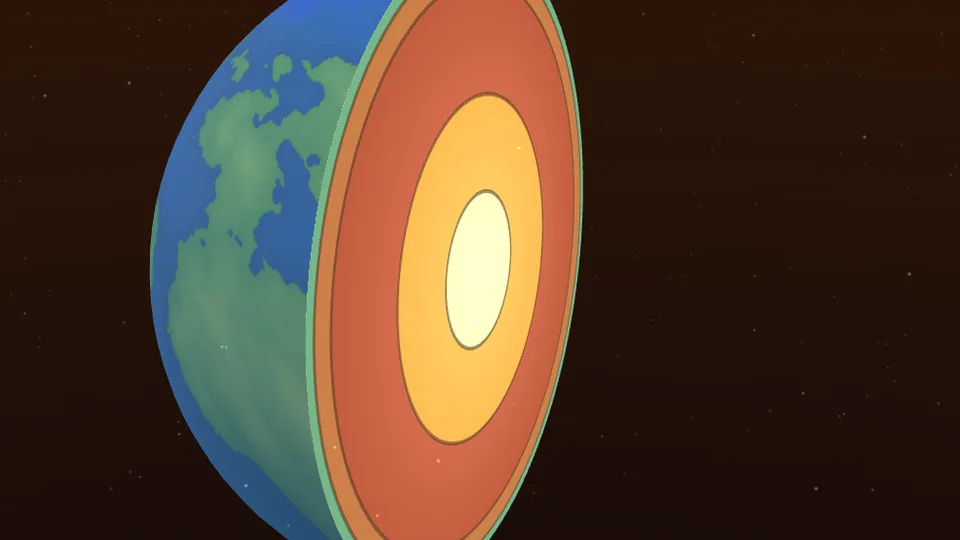
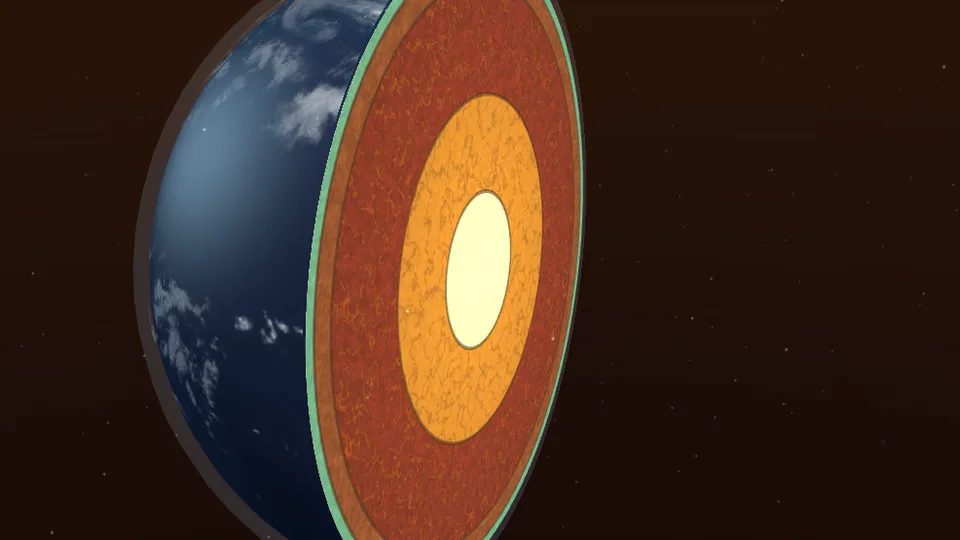
Terra por Dentro v1.0.1: realismo (Blue Marble da NASA, nuvens, halo, secção e túnel com rocha e magma)
- superfície com texturas NASA (cor, normal, máscara de oceano), nuvens e halo acompanhando o corte
- secção com textura de rocha/magma por camada; túnel com 3 materiais (crosta, manto com veios, núcleo metálico)
- precache inclui assets; capa do catálogo atualizada; BUILD 20261010b

Claude-Session: https://claude.ai/code/session_01NY5dyLEWQyRbJcA15BvZbZ

diff --git a/apps/terra/terra-models.js b/apps/terra/terra-models.js
@@ -24,16 +24,29 @@ function ruido2(){const P=new Uint8Array(512);let s=1337;const rnd=()=>{s=(s*168
   const fade=t=>t*t*t*(t*(t*6-15)+10),lerp=(a,b,t)=>a+t*(b-a),grad=(h,x,y)=>{const u=(h&1)?-x:x,v=(h&2)?-y:y;return u+v;};
   const n=(x,y)=>{const X=Math.floor(x)&255,Y=Math.floor(y)&255;x-=Math.floor(x);y-=Math.floor(y);const u=fade(x),v=fade(y);const A=P[X]+Y,B=P[X+1]+Y;return lerp(lerp(grad(P[A],x,y),grad(P[B],x-1,y),u),lerp(grad(P[A+1],x,y-1),grad(P[B+1],x-1,y-1),u),v);};
   return(x,y)=>{let a=0,f=1,amp=1,tot=0;for(let o=0;o<5;o++){a+=n(x*f,y*f)*amp;tot+=amp;amp*=.5;f*=2.1;}return a/tot;};}
-let texSuperficie=null,mascara=null;
-function superficie(){if(texSuperficie)return texSuperficie;const W=1024,H=512,c=document.createElement('canvas');c.width=W;c.height=H;const x=c.getContext('2d');const img=x.createImageData(W,H),d=img.data;const nz=ruido2();mascara=new Uint8Array(W*H);
-  for(let j=0;j<H;j++){const lat=(j/H-.5)*Math.PI;const polar=Math.pow(Math.abs(Math.sin(lat)),9);for(let i=0;i<W;i++){const lon=i/W*Math.PI*2;/* coordenadas na esfera para a textura fechar sem emenda */const px=Math.cos(lat)*Math.cos(lon)*1.6,py=Math.cos(lat)*Math.sin(lon)*1.6,pz=Math.sin(lat)*1.6;const v=nz(px+pz*.7,py-pz*.4)*.5+.5;const terra=v>.56;const k=(j*W+i)*4;let r,g,b;
-    if(terra){const alt=(v-.56)/.3;const mont=alt>.55;r=mont?150+alt*60:70+alt*90;g=mont?135+alt*50:120+alt*60;b=mont?120+alt*60:55+alt*40;mascara[j*W+i]=1;}
-    else{const prof=Math.min(1,(.56-v)/.25);r=18+prof*6;g=60+prof*40*(1-prof);b=120+prof*50;}
-    if(polar>.35){const k2=Math.min(1,(polar-.35)/.4);r=r+(235-r)*k2;g=g+(240-g)*k2;b=b+(245-b)*k2;}
-    d[k]=r;d[k+1]=g;d[k+2]=b;d[k+3]=255;}}
-  x.putImageData(img,0,0);const tx=new T.CanvasTexture(c);tx.encoding=T.sRGBEncoding;tx.anisotropy=8;texSuperficie=tx;return tx;}
+/* superfície: Blue Marble da NASA (domínio público; cópias dos exemplos do three.js r128, convertidas para WebP) */
+const TEX={};const loader=new T.TextureLoader();
+function textura(nome,opt={}){if(TEX[nome])return TEX[nome];const tx=loader.load('assets/'+nome,t=>{if(opt.aoCarregar)opt.aoCarregar(t);});if(opt.srgb!==false)tx.encoding=T.sRGBEncoding;tx.anisotropy=8;TEX[nome]=tx;return tx;}
+let mascara=null;
+function carregarMascara(){if(mascara||carregarMascara.indo)return;carregarMascara.indo=true;const im=new Image();im.onload=()=>{const W=1024,H=512,c=document.createElement('canvas');c.width=W;c.height=H;const x=c.getContext('2d');x.drawImage(im,0,0,W,H);const d=x.getImageData(0,0,W,H).data;mascara=new Uint8Array(W*H);for(let k=0;k<W*H;k++)mascara[k]=d[k*4]>110?0:1;/* mapa especular: oceano claro, continente escuro */};im.src='assets/terra-oceano.webp';}
+function superficie(){carregarMascara();return textura('terra-cor.webp');}
 /* é continente ou oceano no ponto (uv) tocado? */
 function tipoCrosta(uv){if(!mascara||!uv)return 'crosta';const W=1024,H=512;const i=Math.floor(uv.x*W)&(W-1),j=Math.min(H-1,Math.floor((1-uv.y)*H));return mascara[j*W+i]?'crosta_continental':'crosta_oceanica';}
+/* texturas procedurais (geradas uma vez): rocha/magma por camada para a secção; rocha e veias para o túnel */
+const TEXP={};
+function texRuido(nome,W,fn){if(TEXP[nome])return TEXP[nome];const c=document.createElement('canvas');c.width=c.height=W;const x=c.getContext('2d');const img=x.createImageData(W,W),d=img.data;const nz=ruido2();for(let j=0;j<W;j++)for(let i=0;i<W;i++){const k=(j*W+i)*4;const [r,g,b,a]=fn(i/W,j/W,nz);d[k]=r;d[k+1]=g;d[k+2]=b;d[k+3]=a===undefined?255:a;}x.putImageData(img,0,0);const tx=new T.CanvasTexture(c);tx.encoding=T.sRGBEncoding;tx.wrapS=tx.wrapT=T.MirroredRepeatWrapping;tx.anisotropy=8;TEXP[nome]=tx;return tx;}
+const GRAO={crosta:[.55,.3],manto_superior:[.6,.35],manto_inferior:[.6,.4],nucleo_externo:[.3,.5],nucleo_interno:[.2,.3]};
+function texTampa(key){const cam=CAMADAS.find(c=>c.key===key);const base=new T.Color(cam.cor);const [amp,vei]=GRAO[key]||[.5,.3];
+  return texRuido('tampa-'+key,512,(u,v,nz)=>{const dx=u-.5,dy=v-.5;const rr=Math.sqrt(dx*dx+dy*dy)*2;/* raio normalizado da Terra (a tampa usa UV centrado) */
+    const g1=nz(u*48,v*48)*.5+.5,g2=nz(u*160+9,v*160)*.5+.5,g3=Math.abs(nz(u*22+40,v*22+7));/* grão, grão fino, veios */
+    let k=(1-amp)+amp*(0.45*g1+0.55*g2);if(key!=='crosta'&&key!=='nucleo_interno')k*=1-vei*Math.pow(1-Math.min(1,g3*2.2),6)*.9;/* veios escuros ou claros */
+    if(key==='nucleo_externo')k*=.9+.35*Math.pow(1-Math.min(1,g3*2.5),4);/* metal líquido: veios claros */
+    const calor=key==='crosta'?1:1+(1-rr)*.25;/* mais claro para dentro */const r=Math.min(255,base.r*255*k*calor),g=Math.min(255,base.g*255*k*calor),b=Math.min(255,base.b*255*k*calor);return [r,g,b];});}
+function texVeias(){return texRuido('veias',512,(u,v,nz)=>{const g3=Math.abs(nz(u*22+40,v*22+7));const w=Math.pow(1-Math.min(1,g3*2.2),7);const k=255*w;return [k,k*.7,k*.3];});}
+function texRocha(){return texRuido('rocha',512,(u,v,nz)=>{const g1=nz(u*9,v*9)*.5+.5,g2=nz(u*40+3,v*40)*.5+.5,g3=Math.abs(nz(u*14+40,v*14+7));const fenda=Math.pow(Math.min(1,g3*3),.5);const k=(.35+.65*(0.5*g1+0.5*g2))*(.45+.55*fenda);const c=255*k;return [c,c,c];});}
+function texMagma(){return texRuido('magma',512,(u,v,nz)=>{const g3=Math.abs(nz(u*7+40,v*7+7)),g4=nz(u*60,v*60)*.5+.5;const w=Math.pow(1-Math.min(1,g3*2.6),9)*(.5+.5*g4);const k=255*w;return [k,k*.5,k*.12];});}
+/* núcleo externo: metal líquido em redemoinhos largos, sem veios */
+function texMetal(){return texRuido('metal',512,(u,v,nz)=>{const g1=nz(u*4+11,v*4)*.5+.5,g2=nz(u*18+3,v*18+9)*.5+.5;const w=.25+.75*Math.pow(.35*g1+.65*g2,1.6);const k=255*w;return [k,k*.72,k*.3];});}
 /* a Terra: esferas aninhadas; com corte, plano de recorte + tampas (anéis) na secção; destaque opcional de camadas */
 function terra(opt={}){
   const g=new T.Group();const R0=opt.raio||R;const corte=!!opt.corte;const d=(opt.cortePos||0)*R0;/* 0 = pelo centro */
@@ -41,16 +54,18 @@ function terra(opt={}){
   const giro=new T.Group();g.add(giro);const tampas=new T.Group();tampas.rotation.y=opt.anguloCorte!==undefined?opt.anguloCorte:1.0;/* corte oblíquo: vê-se a secção e um pedaço da superfície */g.add(tampas);
   const plano=new T.Plane(V(0,0,-1),d);const local=plano.clone();
   CAMADAS.forEach((c,i)=>{const esf=new T.Mesh(new T.SphereGeometry(c.r*R0,i===0?64:40,i===0?48:28),mat(c.cor,{emissive:c.emis,roughness:i>=3?.45:.8,metalness:i>=3?.25:.02}));
-    if(i===0){esf.material.map=superficie();esf.material.color.setHex(0xffffff);esf.material.emissive.setHex(0x05101c);esf.material.roughness=.85;}
+    if(i===0){esf.material.dispose();esf.material=new T.MeshPhongMaterial({map:superficie(),normalMap:textura('terra-normal.webp',{srgb:false}),normalScale:new T.Vector2(.85,.85),specularMap:textura('terra-oceano.webp',{srgb:false}),specular:new T.Color(0x3a4a5a),shininess:18});}
     if(corte){esf.material.clippingPlanes=[plano];esf.material.clipShadows=true;}
     if(dim(c.key)){esf.material.transparent=true;esf.material.opacity=.22;esf.material.depthWrite=false;}
     if(destaque&&destaque.includes(c.key)&&c.key!=='crosta'){esf.material.emissive=new T.Color(c.cor).multiplyScalar(.35);}
     esf.userData.camada=c.key;const hit=opt.hitFn?opt.hitFn(c.key):null;if(hit)esf.userData.hit=hit;if(i===0)esf.userData.dinamico='crosta';
     giro.add(esf);});
+  /* nuvens e halo atmosférico (acompanham o corte) */
+  if(!opt.semNuvens){const nuv=new T.Mesh(new T.SphereGeometry(R0*1.012,48,32),new T.MeshLambertMaterial({map:textura('terra-nuvens.webp'),transparent:true,opacity:.85,depthWrite:false}));if(corte)nuv.material.clippingPlanes=[plano];if(destaque)nuv.material.opacity=.25;nuv.userData.semEnquadre=true;giro.add(nuv);g.userData.nuvens=nuv;
+    const halo=new T.Mesh(new T.SphereGeometry(R0*1.045,48,32),new T.MeshBasicMaterial({color:0x5aa8ff,transparent:true,opacity:.14,side:T.BackSide,depthWrite:false,blending:T.AdditiveBlending}));if(corte)halo.material.clippingPlanes=[plano];halo.userData.semEnquadre=true;giro.add(halo);}
   if(corte){CAMADAS.forEach(c=>{const ro=c.r*R0,ri=c.r0*R0;if(ro<=Math.abs(d))return;const rout=Math.sqrt(ro*ro-d*d),rin=ri>Math.abs(d)?Math.sqrt(ri*ri-d*d):0;
       const anel=new T.Mesh(rin>0?new T.RingGeometry(rin,rout,96):new T.CircleGeometry(rout,96),mat(c.cor,{emissive:c.emis,roughness:.9,side:T.DoubleSide}));
-      /* gradiente de calor na secção: a face ganha um brilho que cresce para dentro */const cv=document.createElement('canvas');cv.width=cv.height=256;const q=cv.getContext('2d');const grd=q.createRadialGradient(128,128,0,128,128,128);const base=new T.Color(c.cor);const claro=base.clone().lerp(new T.Color(0xffffff),.25),escuro=base.clone().multiplyScalar(.72);grd.addColorStop(0,'#'+claro.getHexString());grd.addColorStop(1,'#'+escuro.getHexString());q.fillStyle=grd;q.fillRect(0,0,256,256);
-      const tx=new T.CanvasTexture(cv);tx.encoding=T.sRGBEncoding;anel.material.map=tx;anel.material.color.setHex(0xffffff);
+      const tx=texTampa(c.key);anel.material.map=tx;anel.material.color.setHex(0xffffff);if(c.key==='nucleo_externo'||c.key==='nucleo_interno'){anel.material.emissiveMap=tx;anel.material.emissive=new T.Color(c.key==='nucleo_interno'?0xffe9a0:0xff9a30);anel.material.emissiveIntensity=c.key==='nucleo_interno'?.55:.35;}else if(c.key!=='crosta'){anel.material.emissiveMap=texVeias();anel.material.emissive=new T.Color(0xff6a20);anel.material.emissiveIntensity=c.key==='manto_inferior'?.45:.28;}
       /* mapeia a textura radial da tampa pelo raio */const uv=anel.geometry.attributes.uv,pos=anel.geometry.attributes.position;for(let k=0;k<uv.count;k++){const px=pos.getX(k),py=pos.getY(k);const rr=Math.sqrt(px*px+py*py)/(R0);uv.setXY(k,.5+px/(2*R0),.5+py/(2*R0));}uv.needsUpdate=true;
       anel.position.z=d+.002;anel.userData.camada=c.key;if(dim(c.key)){anel.material.transparent=true;anel.material.opacity=.3;}
       if(destaque&&destaque.includes(c.key)){anel.material.emissive=new T.Color(c.cor).multiplyScalar(.5);}
@@ -67,7 +82,7 @@ function terra(opt={}){
   if(opt.kola){const mk=new T.Mesh(new T.CylinderGeometry(.012,.012,.1,8),new T.MeshBasicMaterial({color:0xffe08a}));mk.position.set(0,R0-.05,d+.02);tampas.add(mk);textFixo(tampas,'Poço de Kola · 12 km',1.3,R0+.25,d+.03,2.2,'#ffe08a');}
   g.userData.plano=plano;g.userData.local=local;g.userData.giro=giro;g.userData.tampas=tampas;g.userData.raio=R0;
   const girar=opt.girar!==false;
-  g.userData.tick=(t)=>{if(girar)giro.rotation.y=t*.08;if(corte){tampas.updateMatrixWorld(true);plano.copy(local).applyMatrix4(tampas.matrixWorld);}
+  g.userData.tick=(t)=>{if(girar)giro.rotation.y=t*.08;if(g.userData.nuvens)g.userData.nuvens.rotation.y=t*.012;if(corte){tampas.updateMatrixWorld(true);plano.copy(local).applyMatrix4(tampas.matrixWorld);}
     const nuc=giro.children[4];if(nuc&&nuc.material&&nuc.material.emissive)nuc.material.emissiveIntensity=.8+.3*Math.sin(t*1.6);
     if(g.userData.ondas){const R1=g.userData.ondasR;g.userData.ondas.children.forEach(an=>{if(an.userData.f===undefined)return;const u=((t*.22)+an.userData.f)%1;const r=.15+u*R1*1.85;/* só o arco que está dentro da Terra: círculo centrado no epicentro, recortado pelo disco */const a0=Math.asin(Math.min(1,r/(2*R1)));an.geometry.dispose();an.geometry=new T.RingGeometry(Math.max(.01,r-.035),r,72,1,Math.PI+a0,Math.PI-2*a0);an.material.opacity=.9*(1-u*.8);});}
     if(g.userData.campo)g.userData.campo.rotation.y=t*.08;};
@@ -128,9 +143,11 @@ function tunel(){if(tuboCache)return tuboCache;const pts=[];for(let i=0;i<=420;i
   for(let i=0;i<=seg;i++){const t=i/seg;const base=corTrecho(t);for(let j=0;j<=rad;j++){const k=i*(rad+1)+j;v.fromBufferAttribute(pos,k);nn.fromBufferAttribute(nor,k);const r1=nz(t*1300,j*.9)*.5+.5,r2=nz(t*2800+5,j*1.3)*.5+.5;/* ~1 ciclo a cada 6 cm de parede */const amp=t<.3?.16:t<.72?.11:.05;v.addScaledVector(nn,(r1-.5)*amp);pos.setXYZ(k,v.x,v.y,v.z);const fenda=Math.pow(Math.abs(nz(t*4600+30,j*2.2)),.35);/* rachaduras escuras */
       /* cores em espaço linear: valores baixos para não ficarem pastel depois da conversão sRGB */const r3=r2*r2;const brilho=(t>.72?.22+.6*r3:t>.44?.05+.42*r3:.04+.38*r3)*(.55+.45*fenda);const c=base.clone().multiplyScalar(brilho);cols[k*3]=Math.min(1,c.r);cols[k*3+1]=Math.min(1,c.g);cols[k*3+2]=Math.min(1,c.b);}}
   pos.needsUpdate=true;geo.computeVertexNormals();geo.setAttribute('color',new T.BufferAttribute(cols,3));
+  /* repetição da textura ao longo do túnel (u) e em volta (v) */const uv=geo.attributes.uv;for(let k=0;k<uv.count;k++)uv.setXY(k,uv.getX(k)*160,uv.getY(k)*3);uv.needsUpdate=true;
+  /* grupos de material: crosta (voltas 0-1), manto (2-4), núcleo (5-6) */const porSeg=rad*6;geo.clearGroups();const s1=Math.round(seg*2/VOLTAS),s2=Math.round(seg*5/VOLTAS);geo.addGroup(0,s1*porSeg,0);geo.addGroup(s1*porSeg,(s2-s1)*porSeg,1);geo.addGroup(s2*porSeg,(seg-s2)*porSeg,2);
   tuboCache={geo,curva};return tuboCache;}
 function viagemCena(state){const g=new T.Group();const {geo,curva}=tunel();const i=state.trecho||0;
-  const tubo=new T.Mesh(geo,new T.MeshStandardMaterial({vertexColors:true,side:T.BackSide,roughness:.9,metalness:i>=5?.35:.0,emissive:i>=5?0x241000:0x000000}));g.add(tubo);
+  const mats=[new T.MeshStandardMaterial({vertexColors:true,map:texRocha(),side:T.BackSide,roughness:.95,metalness:0}),new T.MeshStandardMaterial({vertexColors:true,map:texRocha(),emissiveMap:texMagma(),emissive:new T.Color(0xff7a20),emissiveIntensity:.5,side:T.BackSide,roughness:.9,metalness:0}),new T.MeshStandardMaterial({vertexColors:true,map:texMetal(),emissiveMap:texMetal(),emissive:new T.Color(0xffb030),emissiveIntensity:.45,side:T.BackSide,roughness:.3,metalness:.7})];const tubo=new T.Mesh(geo,mats);g.add(tubo);
   /* partículas quentes dentro do túnel (faíscas no manto, metal no núcleo) */const n=1400;const pos=new Float32Array(n*3),col=new Float32Array(n*3);let s=7;const rnd=()=>{s=(s*9301+49297)%233280;return s/233280;};
   for(let k=0;k<n;k++){const t=rnd();const p=helice(t);const a=rnd()*Math.PI*2,rr=.16+rnd()*.2;p.x+=Math.cos(a)*rr;p.z+=Math.sin(a)*rr;p.y+=(rnd()-.5)*.3;pos[k*3]=p.x;pos[k*3+1]=p.y;pos[k*3+2]=p.z;const c=corTrecho(t).lerp(new T.Color(0xffffff),.35);col[k*3]=c.r;col[k*3+1]=c.g;col[k*3+2]=c.b;}
   const pg=new T.BufferGeometry();pg.setAttribute('position',new T.BufferAttribute(pos,3));pg.setAttribute('color',new T.BufferAttribute(col,3));
@@ -142,6 +159,6 @@ function viagemCena(state){const g=new T.Group();const {geo,curva}=tunel();const
   g.userData.tick=t=>{g.traverse(o=>{if(o.userData.trilha!==undefined){o.material.opacity=.3+.6*Math.pow(Math.max(0,Math.sin(t*3-o.userData.trilha*8)),2);}});pts.material.opacity=.7+.25*Math.sin(t*2.1);};
   return g;}
 function desafio(){const g=new T.Group();const te=terra({corte:true,hitFn:k=>({type:'inspect',key:k})});g.add(te);g.userData.tick=te.userData.tick;return g;}
-function dispose(g){if(!g)return;const geos=new Set(),mats=new Set(),tex=new Set();g.traverse(o=>{if(o.geometry&&!o.isSprite&&o.geometry!==(tuboCache&&tuboCache.geo))geos.add(o.geometry);for(const m of [].concat(o.material||[])){if(!m)continue;mats.add(m);if(m.map&&m.map!==texSuperficie)tex.add(m.map);}});geos.forEach(x=>x.dispose());mats.forEach(x=>x.dispose());tex.forEach(x=>x.dispose());if(g.parent)g.parent.remove(g);}
+function dispose(g){if(!g)return;const geos=new Set(),mats=new Set(),tex=new Set();g.traverse(o=>{if(o.geometry&&!o.isSprite&&o.geometry!==(tuboCache&&tuboCache.geo))geos.add(o.geometry);for(const m of [].concat(o.material||[])){if(!m)continue;mats.add(m);const comp=new Set([...Object.values(TEX),...Object.values(TEXP)]);for(const t of [m.map,m.emissiveMap,m.normalMap,m.specularMap]){if(t&&!comp.has(t))tex.add(t);}}});geos.forEach(x=>x.dispose());mats.forEach(x=>x.dispose());tex.forEach(x=>x.dispose());if(g.parent)g.parent.remove(g);}
 window.TERRA_MODELS={V,R,CAMADAS,mat,ball,label,rotuloFixo,textFixo,textAt,tag,terra,contexto,explorar,inspection,sequencia,viagemCena,desafio,tipoCrosta,dispose,ESCALA_VR};
 })();

diff --git a/apps/terra/terra-app.js b/apps/terra/terra-app.js
@@ -217,7 +217,7 @@ function setup(){
   else if(ac==='offlineBaixar')offlineBaixar();else if(ac==='downloadJSON')download('TerraPorDentro-resumo.json',JSON.stringify(report(),null,2),'application/json');
   else if(ac==='downloadCSV'){const r=report(),rows=[['evento','habilidade','correto','posicao','escolha','data'],...r.events.map(e=>[e.event,e.skill,e.correct??'',e.position??'',e.choice??'',e.at])];const csv=''+rows.map(row=>row.map(v=>'"'+String(v).replace(/"/g,'""')+'"').join(';')).join('\r\n');download('TerraPorDentro-atividades.csv',csv,'text/csv;charset=utf-8');}
   else if(ac==='catalog'){e.preventDefault();handle('catalog');}});
- $('sourcesContent').innerHTML='<p class="fine">Conteúdo elaborado para o Fundamental II (6º e 7º anos) e o Ensino Médio, com revisão docente recomendada.</p><p class="fine"><b>Modelos 3D:</b> todos procedurais, gerados no navegador pela NEWPC (continentes por ruído, camadas em esferas, túnel da viagem). As espessuras das camadas são didáticas: a crosta real tem cerca de 0,5% do raio.</p><ul class="resource-list">'+D.sources.map(([t,u])=>'<li><a href="'+u+'" target="_blank" rel="noopener noreferrer">'+esc(t)+'</a></li>').join('')+'</ul><p class="fine">Limites: temperaturas e pressões são valores médios de referência; a viagem é uma representação (ninguém jamais desceu além de 12 km). Não substitui atlas geológico.</p>';
+ $('sourcesContent').innerHTML='<p class="fine">Conteúdo elaborado para o Fundamental II (6º e 7º anos) e o Ensino Médio, com revisão docente recomendada.</p><p class="fine"><b>Modelos 3D:</b> procedurais, gerados no navegador pela NEWPC (camadas em esferas, secção com textura de rocha e magma, túnel da viagem). A superfície usa as imagens Blue Marble da NASA (domínio público). As espessuras das camadas são didáticas: a crosta real tem cerca de 0,5% do raio.</p><ul class="resource-list">'+D.sources.map(([t,u])=>'<li><a href="'+u+'" target="_blank" rel="noopener noreferrer">'+esc(t)+'</a></li>').join('')+'</ul><p class="fine">Limites: temperaturas e pressões são valores médios de referência; a viagem é uma representação (ninguém jamais desceu além de 12 km). Não substitui atlas geológico.</p>';
  $('level').addEventListener('change',e=>{S.level=e.target.value;renderSidebar();save();});$('voiceVolume').addEventListener('input',e=>{const n=Number(e.target.value);$('voiceValue').textContent=n+'%';narrator.setVoice(n/100);});$('musicVolume').addEventListener('input',e=>{const n=Number(e.target.value);$('musicValue').textContent=n+'%';narrator.setMusic($('musicEnabled').checked,n/100);});$('musicEnabled').addEventListener('change',e=>narrator.setMusic(e.target.checked));$('autoVoice').checked=S.autoVoice;$('autoVoice').addEventListener('change',e=>{S.autoVoice=e.target.checked;if(!S.autoVoice)narrator.stop();save();});$('syntheticVoice').addEventListener('change',e=>{narrator.synthetic=e.target.checked;narrator.stop();});$('captionsEnabled').checked=S.captions;$('captionsEnabled').addEventListener('change',e=>{S.captions=e.target.checked;$('captionText').hidden=!S.captions;save();});$('reducedMotion').checked=S.reducedMotion;$('reducedMotion').addEventListener('change',e=>{S.reducedMotion=e.target.checked;save();});$('quality').value=S.quality;$('quality').addEventListener('change',e=>{S.quality=e.target.value;if(view)view.pixel=0;save();});if($('chaoVR')){$('chaoVR').value=S.chaoVR||'discreto';$('chaoVR').addEventListener('change',e=>{S.chaoVR=e.target.value;save();});}
  window.addEventListener('pagehide',()=>{save();narrator.dispose();});document.addEventListener('visibilitychange',()=>{if(document.hidden){narrator.stop();narrator.music.pause();}});
  if(T&&M)view=new LabView();else{$('webglError').hidden=false;$('stage').classList.add('error');}

diff --git a/apps/terra/terra-data.js b/apps/terra/terra-data.js
@@ -2,7 +2,7 @@
    Conteúdo: tema Camadas da Terra (Contexto, Explorar, Monte as camadas, Viagem ao centro, Desafio).
    Placas, Vulcão e Rochas entram como temas "em breve". Textos no tom falado das narrações (chaves = nomes dos MP3 em audio/). */
 (function(){'use strict';
-const D={version:'1.0.0'};
+const D={version:'1.0.1'};
 D.temas=[
  {id:'camadas',nome:'Camadas da Terra',estuda:'Do que a Terra é feita por dentro.',exemplos:'Crosta, manto, núcleo externo e núcleo interno',modulo:'cam',atividades:['contexto','explorar','montar','viagem'],questoes:['liquida','kola','manto','magnetico','sismicas','interno','oceanica','temperatura']},
  {id:'placas',nome:'Placas tectônicas',estuda:'Por que a crosta se mexe, treme e se quebra.',breve:true},
@@ -77,6 +77,6 @@ D.guide=[
  {view:'desafio',title:'Mostre o que entendeu',goal:'Responda às situações finais e consulte o seu resumo.',check:'desafio',audio:'aula-desafio'}
 ];
 D.WELCOME='Bem-vindo ao Terra por Dentro! Aqui você vai abrir o planeta ao meio, conhecer cada camada, montar a Terra de fora para dentro e fazer uma viagem até o centro, onde ninguém nunca chegou. Vamos começar?';
-D.sources=[['USGS · Earth\'s interior','https://www.usgs.gov/faqs/what-are-earths-layers'],['IRIS · Exploring the Earth using seismology','https://www.iris.edu/hq/inclass/animation/exploring_the_earth_using_seismology'],['Kola Superdeep Borehole · dados históricos','https://en.wikipedia.org/wiki/Kola_Superdeep_Borehole'],['BNCC · EF06CI11 (camadas da Terra); EF06CI12, EF07CI15 e EF07CI16 nos temas seguintes','http://basenacionalcomum.mec.gov.br/']];
+D.sources=[['NASA Visible Earth · Blue Marble (texturas da superfície, domínio público; cópias distribuídas com o three.js)','https://visibleearth.nasa.gov/collection/1484/blue-marble'],['USGS · Earth\'s interior','https://www.usgs.gov/faqs/what-are-earths-layers'],['IRIS · Exploring the Earth using seismology','https://www.iris.edu/hq/inclass/animation/exploring_the_earth_using_seismology'],['Kola Superdeep Borehole · dados históricos','https://en.wikipedia.org/wiki/Kola_Superdeep_Borehole'],['BNCC · EF06CI11 (camadas da Terra); EF06CI12, EF07CI15 e EF07CI16 nos temas seguintes','http://basenacionalcomum.mec.gov.br/']];
 window.TERRA_DATA=D;
 })();

diff --git a/index.html b/index.html
@@ -244,7 +244,7 @@ body.intro-fullscreen #btnSkipIntro{cursor:pointer}
         </div>
       </article>
 
-      <article class="card available experience-card" data-keywords="terra geologia geociencias crosta manto nucleo camadas vulcoes terremotos placas tectonicas interior do planeta viagem ao centro kola ondas sismicas campo magnetico vr 3d" data-tema="geociencias" data-serie="efii em" data-status="disponivel" style="--bgimg:url('assets/capa-terra-card.webp?v=1')">
+      <article class="card available experience-card" data-keywords="terra geologia geociencias crosta manto nucleo camadas vulcoes terremotos placas tectonicas interior do planeta viagem ao centro kola ondas sismicas campo magnetico vr 3d" data-tema="geociencias" data-serie="efii em" data-status="disponivel" style="--bgimg:url('assets/capa-terra-card.webp?v=2')">
         <div class="media"></div><div class="glow"></div>
         <div class="card-content">
           <span class="tag">Disponível agora</span>
@@ -446,7 +446,7 @@ document.addEventListener('webkitfullscreenchange',function(){
    O app fica pré-carregado num iframe invisível (mesma origem). O clique aqui conta como gesto
    do usuário para o iframe, então a sessão WebXR abre na hora, sem segundo toque. */
 /* BUILD muda a cada publicação: força o navegador do óculos a buscar o index.html novo dos apps (o GitHub Pages ignora a query) */
-const BUILD='20261010a';
+const BUILD='20261010b';
 const appFrames={};
 /* os links dos cartões também levam a versão, para abrir direto sem cache antigo */
 document.querySelectorAll('.card-actions a[href^="apps/"]').forEach(a=>{const u=new URL(a.getAttribute('href'),location.href);u.searchParams.set('v',BUILD);a.setAttribute('href',u.pathname+u.search);});

diff --git a/apps/terra/index.html b/apps/terra/index.html
@@ -4,13 +4,13 @@
 <meta charset="utf-8"><meta name="viewport" content="width=device-width,initial-scale=1,viewport-fit=cover">
 <meta name="theme-color" content="#08192c"><meta name="description" content="Terra por Dentro: camadas da Terra (crosta, manto, núcleo externo e interno), a Terra aberta ao meio, montagem das camadas e uma viagem em primeira pessoa até o centro do planeta. Modelos procedurais, narração em português, 3D e VR.">
 <title>Terra por Dentro · Laboratório de aprendizagem | Portal do Educador</title>
-<link rel="icon" href="assets/logo.png"><link rel="stylesheet" href="terra-lab.css?v=1.0.0"><link rel="stylesheet" href="terra-portal.css?v=1.0.0">
+<link rel="icon" href="assets/logo.png"><link rel="stylesheet" href="terra-lab.css?v=1.0.1"><link rel="stylesheet" href="terra-portal.css?v=1.0.1">
 <script defer src="vendor/three.r128.min.js"></script>
-<script defer src="terra-data.js?v=1.0.0"></script>
-<script defer src="terra-models.js?v=1.0.0"></script>
-<script defer src="terra-audio.js?v=1.0.0"></script>
-<script defer src="terra-app.js?v=1.0.0"></script>
-<script defer src="terra-portal.js?v=1.0.0"></script>
+<script defer src="terra-data.js?v=1.0.1"></script>
+<script defer src="terra-models.js?v=1.0.1"></script>
+<script defer src="terra-audio.js?v=1.0.1"></script>
+<script defer src="terra-app.js?v=1.0.1"></script>
+<script defer src="terra-portal.js?v=1.0.1"></script>
 </head>
 <body>
 <div id="lab">

diff --git a/apps/terra/sw.js b/apps/terra/sw.js
@@ -2,7 +2,7 @@
    Objetivo: a aplicação funcionar sem internet depois da primeira abertura (rede de escola oscila; Chromebook, lousa e Quest).
    Duas caches: a "casca" (html, css, js, three.js) muda a cada versão; a "pesada" (modelos .glb e áudios .mp3) é persistente e só
    rebaixa os arquivos cujo hash mudou no precache.json. Pedidos com Range (trilha de fundo) recebem 206 a partir do arquivo em cache. */
-const VERSAO='1.0.0';
+const VERSAO='1.0.1';
 const CASCA='terra-casca-'+VERSAO,PESADA='terra-pesada-v1',META='terra-meta-v1';
 const ESCOPO=new URL(self.registration.scope).pathname;
 let baixando=false;

diff --git a/tools/gerar-precache.py b/tools/gerar-precache.py
@@ -9,7 +9,9 @@ APP=sys.argv[1] if len(sys.argv)>1 else 'corpo-humano';DADOS=sys.argv[2] if len(
 raiz=os.path.join(os.path.dirname(os.path.abspath(__file__)),'..','apps',APP);raiz=os.path.normpath(raiz)
 html=open(os.path.join(raiz,'index.html'),encoding='utf-8').read()
 casca=['./','index.html']+sorted(set(re.findall(r'(?:src|href)="((?!https?:|\.\./)[^"]+\.(?:js|css|png|webp|svg|ico)(?:\?v=[^"]*)?)"',html)))
-for extra in ['assets/logo.png','guia-professor.html']:
+extras=['assets/logo.png','guia-professor.html']
+if os.path.isdir(os.path.join(raiz,'assets')):extras+=['assets/'+n for n in sorted(os.listdir(os.path.join(raiz,'assets'))) if n.endswith(('.webp','.png','.jpg'))]
+for extra in extras:
     if extra not in casca and os.path.exists(os.path.join(raiz,extra)):casca.append(extra)
 def h(p):
     m=hashlib.md5()
